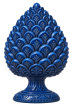
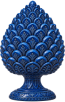
Align height of pinecone exactly to 76px text block height with matching top and bottom alignment

diff --git a/stay.html b/stay.html
@@ -227,7 +227,7 @@ body {
 .stay-hero-title-wrap {
   position: relative !important;
   width: 325px !important;
-  height: 105px !important;
+  height: 76px !important;
   max-width: 100% !important;
   margin: 0 auto !important;
   display: block !important;
@@ -236,13 +236,13 @@ body {
 
 .stay-title-cone-container {
   position: absolute !important;
-  left: 4px !important;
+  left: 6px !important;
   top: 0px !important;
-  width: 65px !important;
-  height: 105px !important;
+  width: 48px !important;
+  height: 76px !important;
   overflow: hidden !important;
   display: flex !important;
-  align-items: center !important;
+  align-items: stretch !important;
   justify-content: center !important;
   pointer-events: none !important;
   user-select: none !important;
@@ -251,9 +251,9 @@ body {
 }
 
 .stay-title-cone-img {
-  width: 65px !important;
-  height: 105px !important;
-  object-fit: contain !important;
+  width: 100% !important;
+  height: 100% !important;
+  object-fit: fill !important;
   display: block !important;
   pointer-events: none !important;
   user-select: none !important;
@@ -262,13 +262,13 @@ body {
 
 .stay-title-text-wrap {
   position: absolute !important;
-  left: 69px !important;
+  left: 64px !important;
   top: 0px !important;
   width: 256px !important;
-  height: 105px !important;
+  height: 76px !important;
   display: flex !important;
   flex-direction: column !important;
-  justify-content: flex-start !important;
+  justify-content: space-between !important;
   align-items: center !important;
   text-align: center !important;
   box-sizing: border-box !important;
